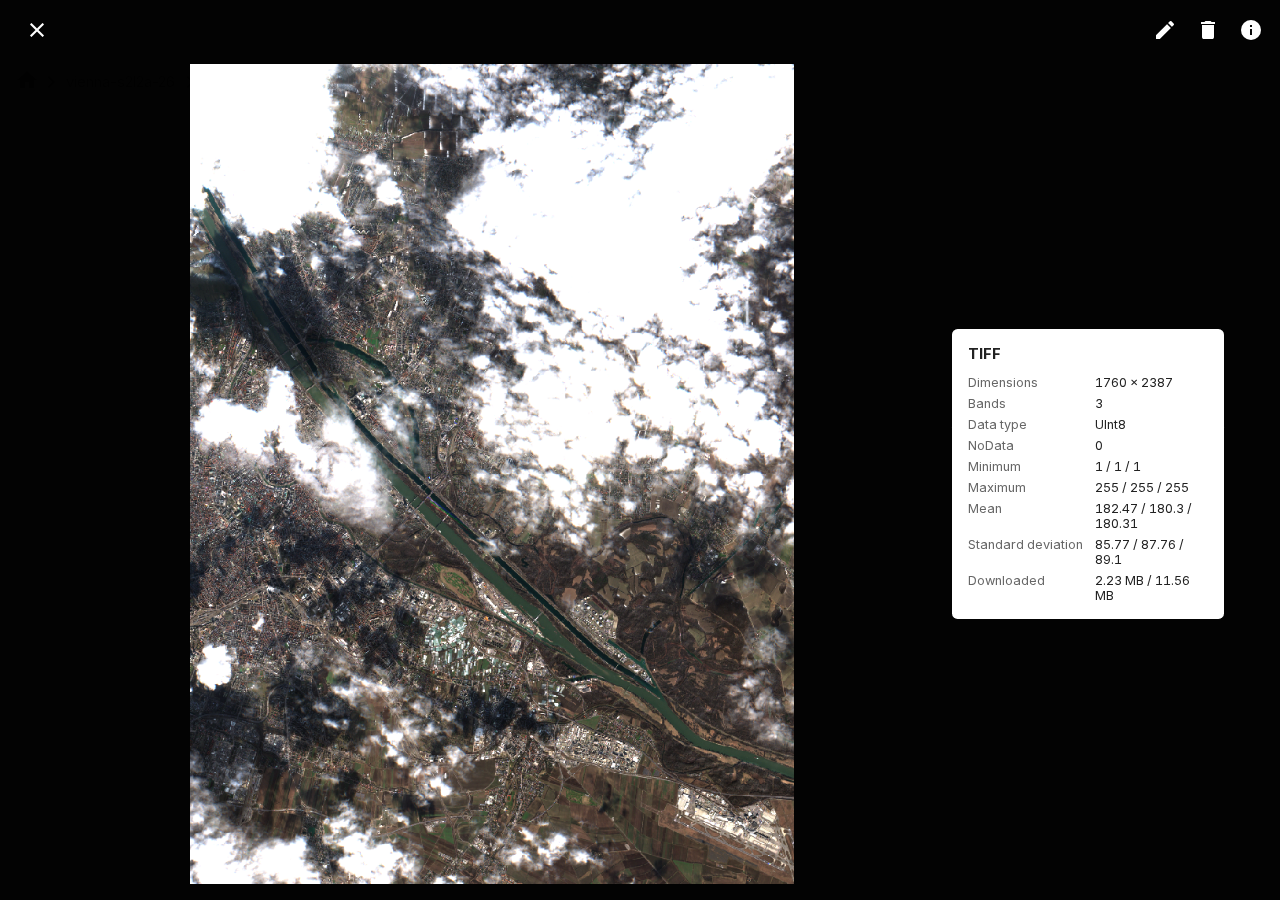
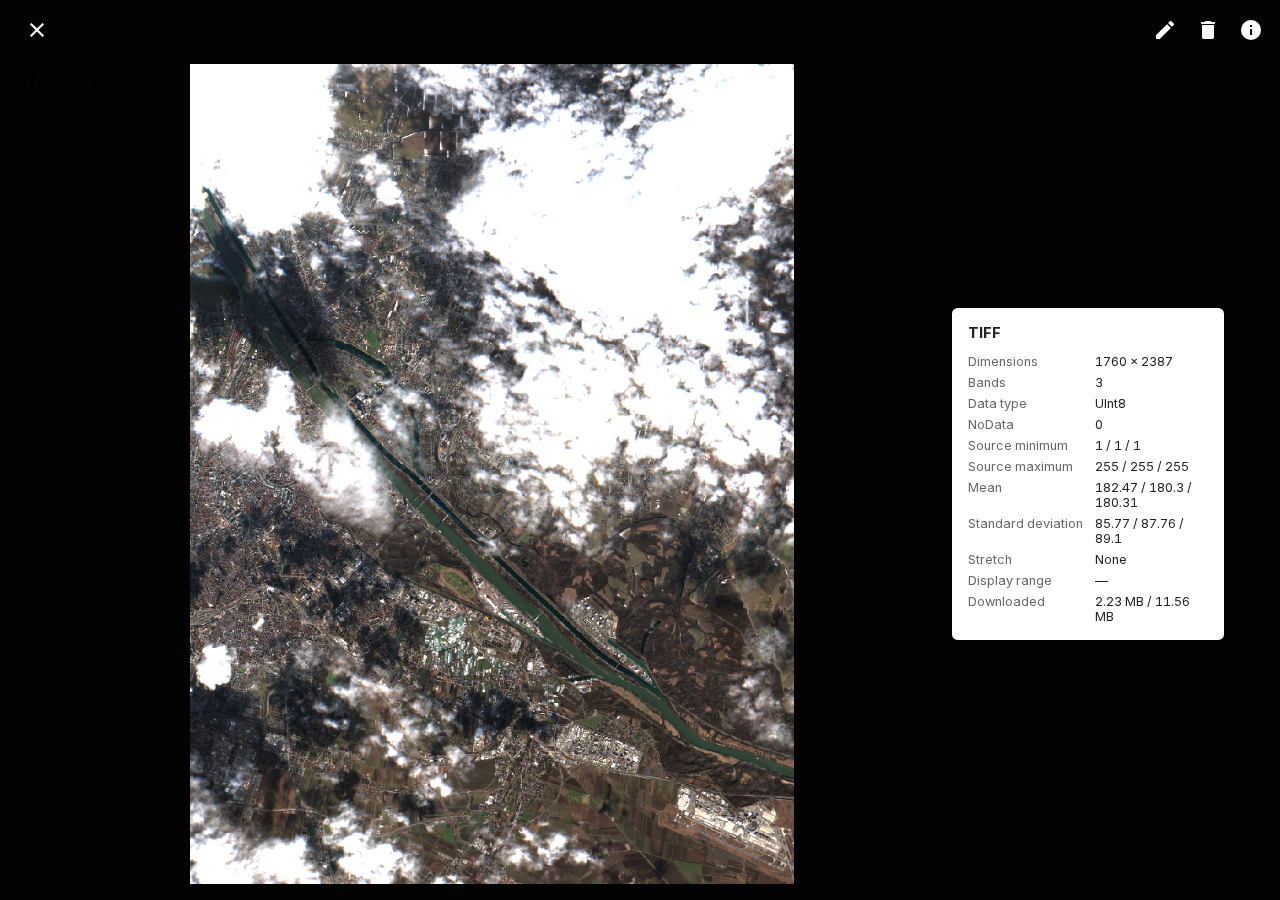
merge auto stretching from upstream

Changed region(s): [[0.7188, 0.3422, 0.9688, 0.7156]]

diff --git a/frontend/src/renderers/TiffRenderer.vue b/frontend/src/renderers/TiffRenderer.vue
@@ -80,6 +80,11 @@ const information = computed(() => {
     { label: t("files.tiffMaximum"), value: rasterInfo.value.maximum },
     { label: t("files.tiffMean"), value: rasterInfo.value.mean },
     { label: t("files.tiffStdDev"), value: rasterInfo.value.stdDev },
+    { label: t("files.tiffStretch"), value: rasterInfo.value.stretch },
+    {
+      label: t("files.tiffDisplayRange"),
+      value: rasterInfo.value.displayRange,
+    },
     {
       label: t("files.tiffTransfer"),
       value: `${downloadedSize.value} / ${totalSize.value}`,
@@ -110,6 +115,51 @@ function dataType(image, samples) {
     return `${prefix}${image.getBitsPerSample(sample)}`;
   });
   return [...new Set(types)].join(" / ");
+}
+
+function shouldStretch(image, samples) {
+  const displayedSamples = Math.min(samples, 3);
+  return (
+    samples === 1 ||
+    Array.from(
+      { length: displayedSamples },
+      (_, sample) =>
+        image.getSampleFormat(sample) !== 1 ||
+        image.getBitsPerSample(sample) > 8
+    ).some(Boolean)
+  );
+}
+
+function percentileRanges(raster, channels, noData) {
+  const pixelCount = raster.length / channels;
+  const step = Math.max(1, Math.ceil(pixelCount / 100_000));
+  const values = Array.from({ length: channels }, () => []);
+
+  for (let pixel = 0; pixel < pixelCount; pixel += step) {
+    for (let channel = 0; channel < channels; channel++) {
+      const value = raster[pixel * channels + channel];
+      if (Number.isFinite(value) && (noData === null || value !== noData)) {
+        values[channel].push(value);
+      }
+    }
+  }
+
+  return values.map((band) => {
+    if (band.length === 0) return { minimum: 0, maximum: 1 };
+    band.sort((left, right) => left - right);
+    const minimum = band[Math.floor((band.length - 1) * 0.02)];
+    const maximum = band[Math.ceil((band.length - 1) * 0.98)];
+    return maximum > minimum
+      ? { minimum, maximum }
+      : { minimum: band[0], maximum: band[band.length - 1] };
+  });
+}
+
+function stretchToByte(value, range) {
+  if (range.maximum <= range.minimum) return 0;
+  const scaled =
+    (255 * (value - range.minimum)) / (range.maximum - range.minimum);
+  return Math.round(Math.max(0, Math.min(255, scaled)));
 }
 
 async function renderTiff() {
@@ -152,6 +202,8 @@ async function renderTiff() {
       maximum: formatBandStatistic(metadata, "STATISTICS_MAXIMUM"),
       mean: formatBandStatistic(metadata, "STATISTICS_MEAN"),
       stdDev: formatBandStatistic(metadata, "STATISTICS_STDDEV"),
+      stretch: t("files.tiffNoStretch"),
+      displayRange: "—",
     };
 
     const targetWidth = Math.min(768, fullWidth);
@@ -175,29 +227,67 @@ async function renderTiff() {
     canvas.height = targetHeight;
     const ctx = canvas.getContext("2d");
 
-    const rgb = await previewImage.readRGB({
-      width: targetWidth,
-      height: targetHeight,
-      interleave: true,
-    });
-    const maxSampleValue =
-      rgb.BYTES_PER_ELEMENT === 1
-        ? 255
-        : 2 ** previewImage.getBitsPerSample(0) - 1;
-    const toByte = (value) => Math.round((255 * value) / maxSampleValue);
-
     const imageData = ctx.createImageData(targetWidth, targetHeight);
+    const stretch = shouldStretch(previewImage, samples);
 
-    for (let i = 0; i < targetWidth * targetHeight; i++) {
-      imageData.data.set(
-        [
-          toByte(rgb[i * 3] ?? 0),
-          toByte(rgb[i * 3 + 1] ?? 0),
-          toByte(rgb[i * 3 + 2] ?? 0),
-          255,
-        ],
-        i * 4
+    if (stretch) {
+      const channels = Math.min(samples, 3);
+      const selectedSamples = Array.from(
+        { length: channels },
+        (_, sample) => sample
       );
+      const raster = await previewImage.readRasters({
+        width: targetWidth,
+        height: targetHeight,
+        interleave: true,
+        samples: selectedSamples,
+      });
+      const noData = image.getGDALNoData();
+      const ranges = percentileRanges(raster, channels, noData);
+
+      for (let pixel = 0; pixel < targetWidth * targetHeight; pixel++) {
+        const offset = pixel * channels;
+        const greenChannel = Math.min(1, channels - 1);
+        const blueChannel = Math.min(2, channels - 1);
+        const red = stretchToByte(raster[offset] ?? 0, ranges[0]);
+        const green = stretchToByte(
+          raster[offset + greenChannel] ?? 0,
+          ranges[greenChannel]
+        );
+        const blue = stretchToByte(
+          raster[offset + blueChannel] ?? 0,
+          ranges[blueChannel]
+        );
+        imageData.data.set([red, green, blue, 255], pixel * 4);
+      }
+
+      rasterInfo.value.stretch = t("files.tiffPercentileStretch");
+      rasterInfo.value.displayRange = ranges
+        .map(
+          (range) =>
+            `${formatNumber(range.minimum)}–${formatNumber(range.maximum)}`
+        )
+        .join(" / ");
+      canvas.dataset.stretch = "percentile";
+    } else {
+      const rgb = await previewImage.readRGB({
+        width: targetWidth,
+        height: targetHeight,
+        interleave: true,
+      });
+
+      for (let pixel = 0; pixel < targetWidth * targetHeight; pixel++) {
+        imageData.data.set(
+          [
+            rgb[pixel * 3] ?? 0,
+            rgb[pixel * 3 + 1] ?? 0,
+            rgb[pixel * 3 + 2] ?? 0,
+            255,
+          ],
+          pixel * 4
+        );
+      }
+      canvas.dataset.stretch = "none";
     }
 
     ctx.putImageData(imageData, 0, 0);

diff --git a/frontend/tests/usecases.spec.ts b/frontend/tests/usecases.spec.ts
@@ -8,6 +8,7 @@ const publicSampleShare = "sample-share";
 const backendBaseURL = `http://127.0.0.1:${process.env.PACKAGE_R_PORT || "8888"}`;
 const screenshotBackendBaseURL = "http://127.0.0.1:8888";
 const overviewPath = `${dataset}/${itemId}/overview.tif`;
+const greenPath = `${dataset}/${itemId}/green.tif`;
 const publicShareOverviewPath = `/share/${publicShare}/${itemId}/overview.tif`;
 const stacBrowserBaseURL = "http://localhost:8080/external/";
 const screenshotOptions = { animations: "disabled", caret: "hide" } as const;
@@ -350,7 +351,9 @@ test.describe("packageR use-case UI", () => {
     await page.goto(`/files/${overviewPath}`);
 
     const preview = page.locator("#previewer .preview");
-    await expectTiffRendered(preview.locator(".tiff-preview canvas"));
+    const canvas = preview.locator(".tiff-preview canvas");
+    await expectTiffRendered(canvas);
+    await expect(canvas).toHaveAttribute("data-stretch", "none");
     await expect(
       page.getByRole("button", { name: "Profile Settings", exact: true })
     ).toHaveCount(0);
@@ -361,6 +364,22 @@ test.describe("packageR use-case UI", () => {
       "authenticated-image-preview.png",
       screenshotOptions
     );
+  });
+
+  test("stretches a higher-bit-depth TIFF preview", async ({ page }) => {
+    await loginAsInitialUser(page);
+    await page.goto(`/files/${greenPath}`);
+
+    const preview = page.locator("#previewer .preview");
+    const canvas = preview.locator(".tiff-preview canvas");
+    await expectTiffRendered(canvas);
+    await expect(canvas).toHaveAttribute("data-stretch", "percentile");
+
+    const information = preview.locator(".tiff-information");
+    await expect(information).toContainText("UInt16");
+    await expect(information).toContainText("Percentile (2–98%)");
+    await expect(information).toContainText("Display range");
+    await expect(information).not.toContainText("Display range—");
   });
 
   test("renders public share directory listing", async ({ page }) => {
@@ -396,6 +415,16 @@ test.describe("packageR use-case UI", () => {
     await page.getByLabel(itemId).dblclick();
     await expect(page).toHaveURL(new RegExp(`/share/${publicShare}/${itemId}/$`));
     await expect(page.getByLabel("rgb.tif")).toBeVisible();
+
+    for (const name of ["product_metadata.xml", "tileinfo_metadata.json"]) {
+      const icon = page.getByLabel(name, { exact: true }).locator("i");
+      await expect(icon).toBeVisible();
+      expect(
+        await icon.evaluate((element) =>
+          getComputedStyle(element, "::before").content.replaceAll('"', "")
+        )
+      ).toBe("description");
+    }
   });
 
   test("previews a public file and creates a presigned URL", async ({

diff --git a/frontend/src/css/listing-icons.css b/frontend/src/css/listing-icons.css
@@ -87,8 +87,7 @@
 .file-icons [data-ext=".py"] i::before,
 .file-icons [data-ext=".rb"] i::before,
 .file-icons [data-ext=".rs"] i::before,
-.file-icons [data-ext=".vue"] i::before,
-.file-icons [data-ext=".xml"] i::before {
+.file-icons [data-ext=".vue"] i::before {
   content: "code";
 }
 
